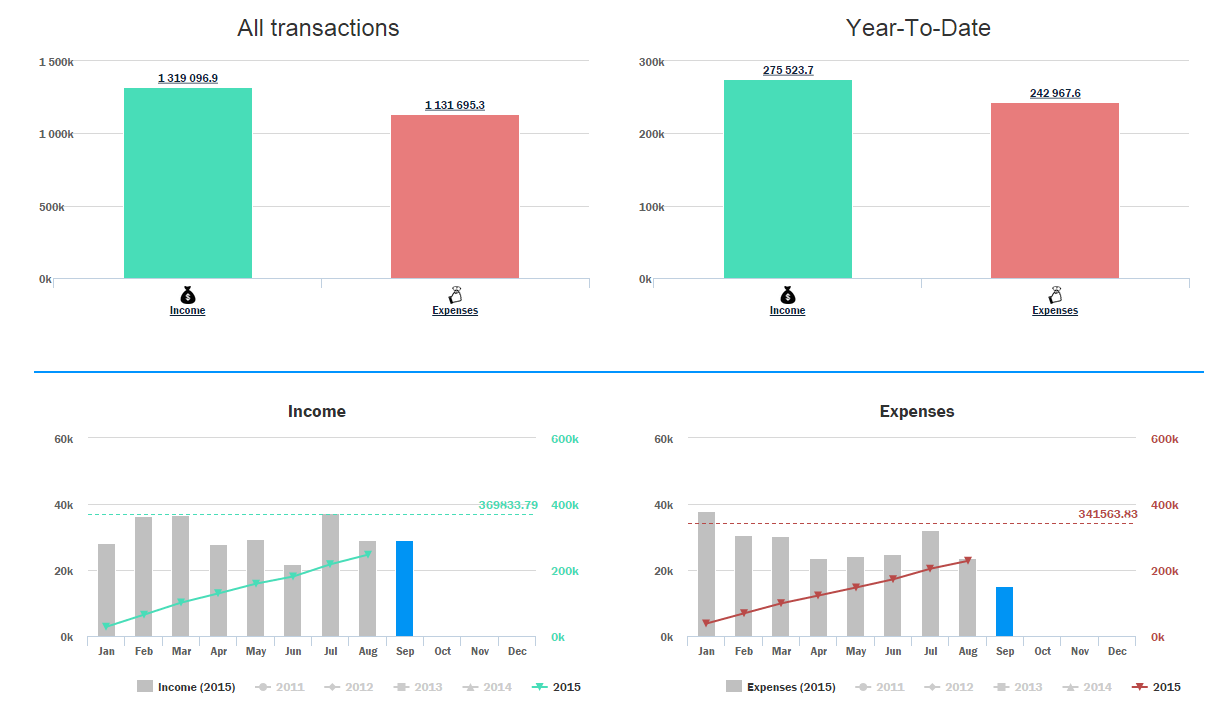
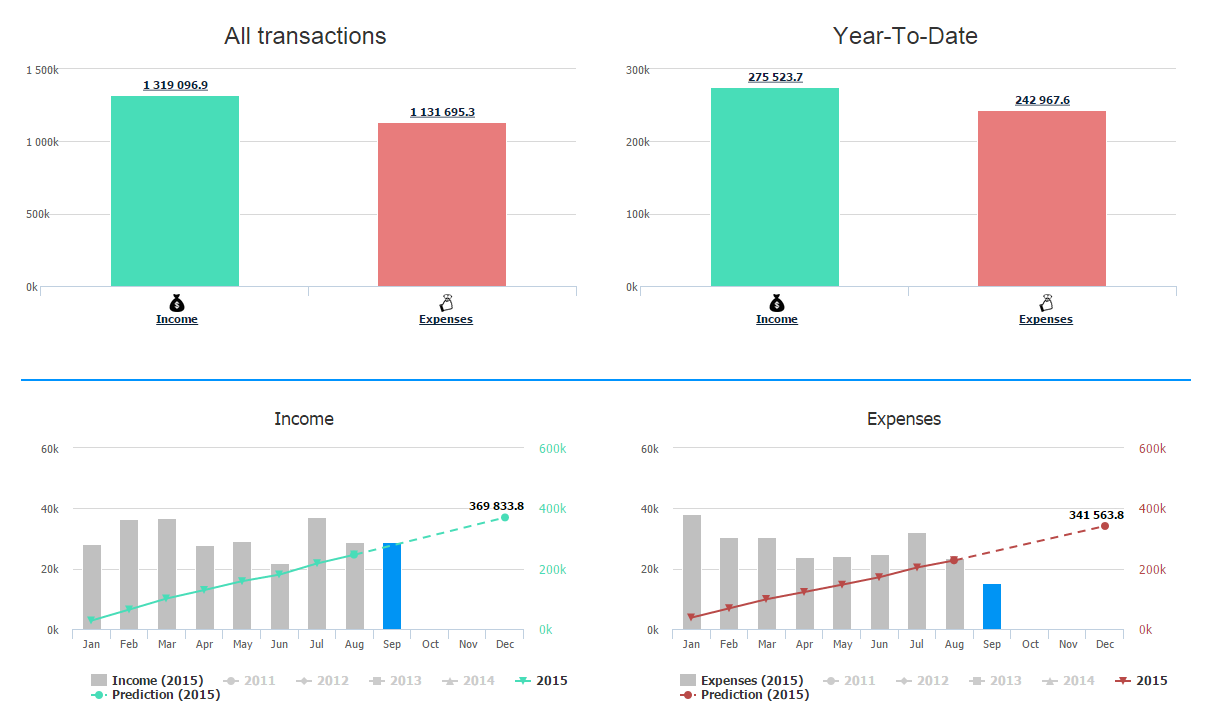
Added fuel, small changes

diff --git a/BudgetApp/js/services/Services.js b/BudgetApp/js/services/Services.js
@@ -137,6 +137,9 @@
                 case "Workout":
                     imageName = "upper20.png";
                     break;
+                case "Fuel":
+                    imageName = "fuel4.png";
+                    break;
                 default:
                     imageName = "question30.png";
             }

diff --git a/BudgetApp/Extensions/Graphs/Prognosis.cs b/BudgetApp/Extensions/Graphs/Prognosis.cs
@@ -46,7 +46,7 @@ namespace BudgetApp.Extensions.Graphs
                         Color = income ? "#48DDb8" : "#b94a48",
                         DashStyle = "dash",
                         Data = new List<Data>
-                {
+                    {
                     new Data
                     {
                         X = lastSeries.Data.Last().X,

diff --git a/BudgetApp/Constants/Categories.cs b/BudgetApp/Constants/Categories.cs
@@ -83,7 +83,7 @@ namespace BudgetApp.Constants
                     {
                         Category.Car,
                         Category.CollectiveTransport,
-
+                        Category.Fuel,
                         Category.OtherTransportation
                     }
                 },

diff --git a/BudgetApp/Models/Category.cs b/BudgetApp/Models/Category.cs
@@ -81,6 +81,7 @@ namespace BudgetApp.Models
         Saving,
         [Description("ATM")]
         ATM,
-        Workout
+        Workout,
+        Fuel
     }
 }
